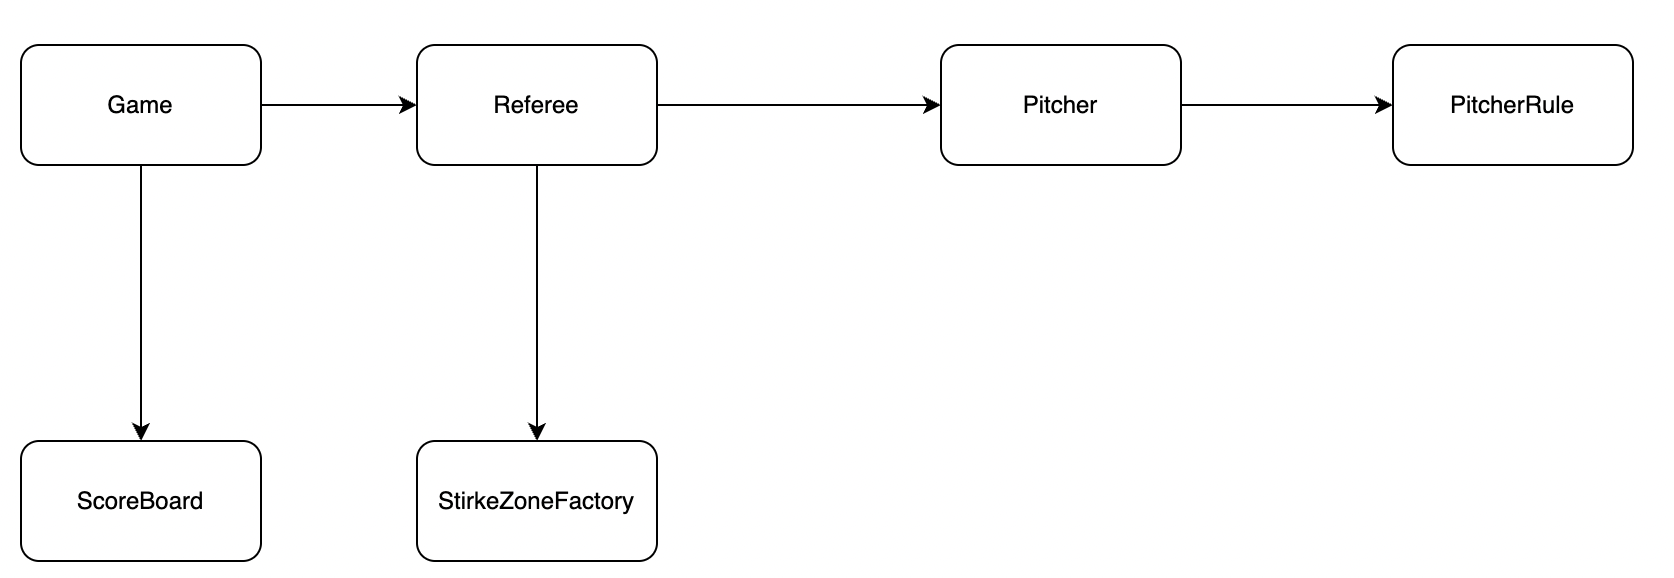
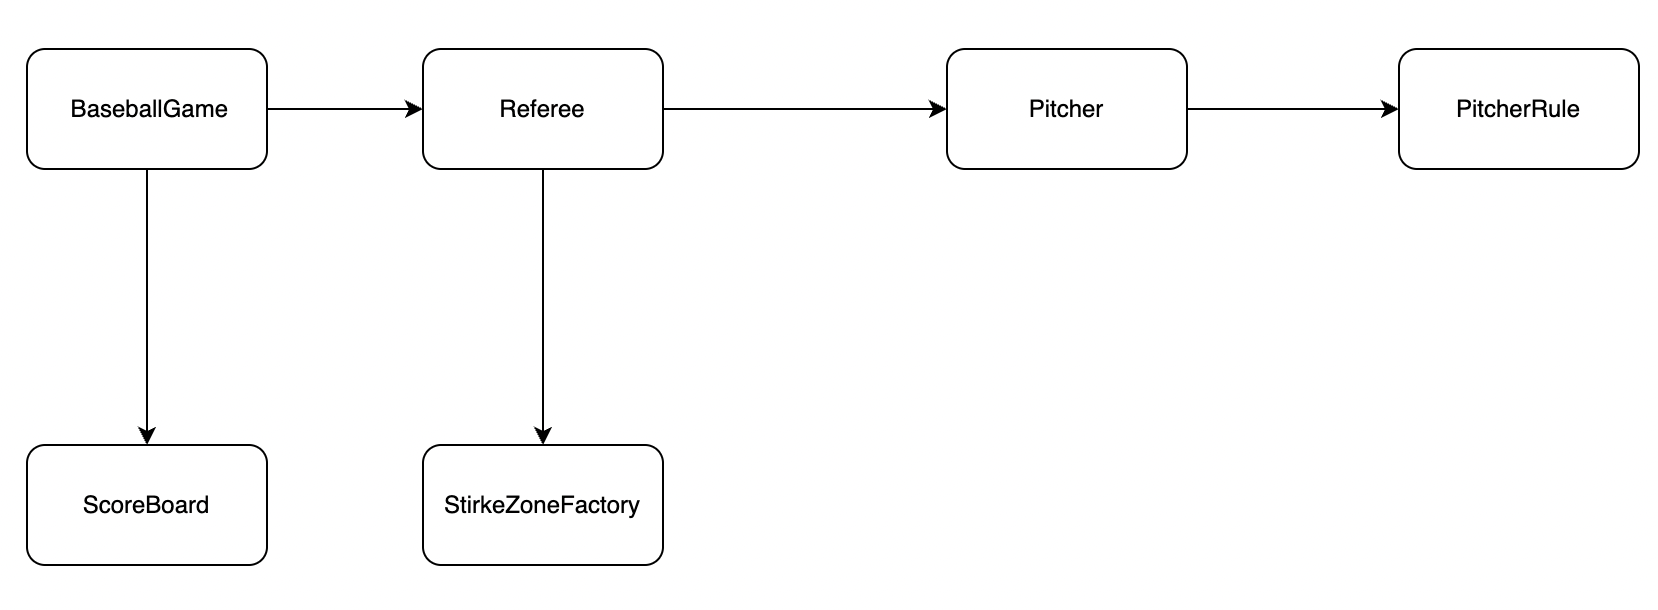
docs: update object model and feature

diff --git a/docs/README.md b/docs/README.md
@@ -11,8 +11,7 @@
       
 - PitcherRule
     - 입력받은 문자열에 대해 유효성 검사
-    - 검사 통과 시 3자리 숫자형으로 변환 및 반환
-    - 검사 통과하지 못할 시 IllegaArgumentException 예외 발생
+    - 유효성 결과에 대해 참, 거짓 반환
   
 - Referee
     - StrikeZoneFactory로부터 생성된 strikeZone을 저장
@@ -21,11 +20,14 @@
 - Pitcher
     - 사용자로부터 pitchNumber를 입력 받음
     - PitcherRule로부터 pitchNumber 검증
+      - 유효하지 않은 결과에 대해 IleegalArgumentException 발생
     
-- Game
+- BaseballGame
     - ScoreBoard에 점수 전달
-    - 스트라이크 : 사용자로부터 게임 재시작, 중지 여부 확인
+    - 3스트라이크 : 사용자로부터 게임 재시작, 중지 여부 확인
+      - 유효하지 않은 입력 시 IllegalArgumentException 발생
     - other : 기존 게임 지속
 
 - ScoreBoard
-    - 전달받은 점수 출력
+  - 전달 받은 점수를 출력 형태로 가공
+  - 가공된 점수를 출력
